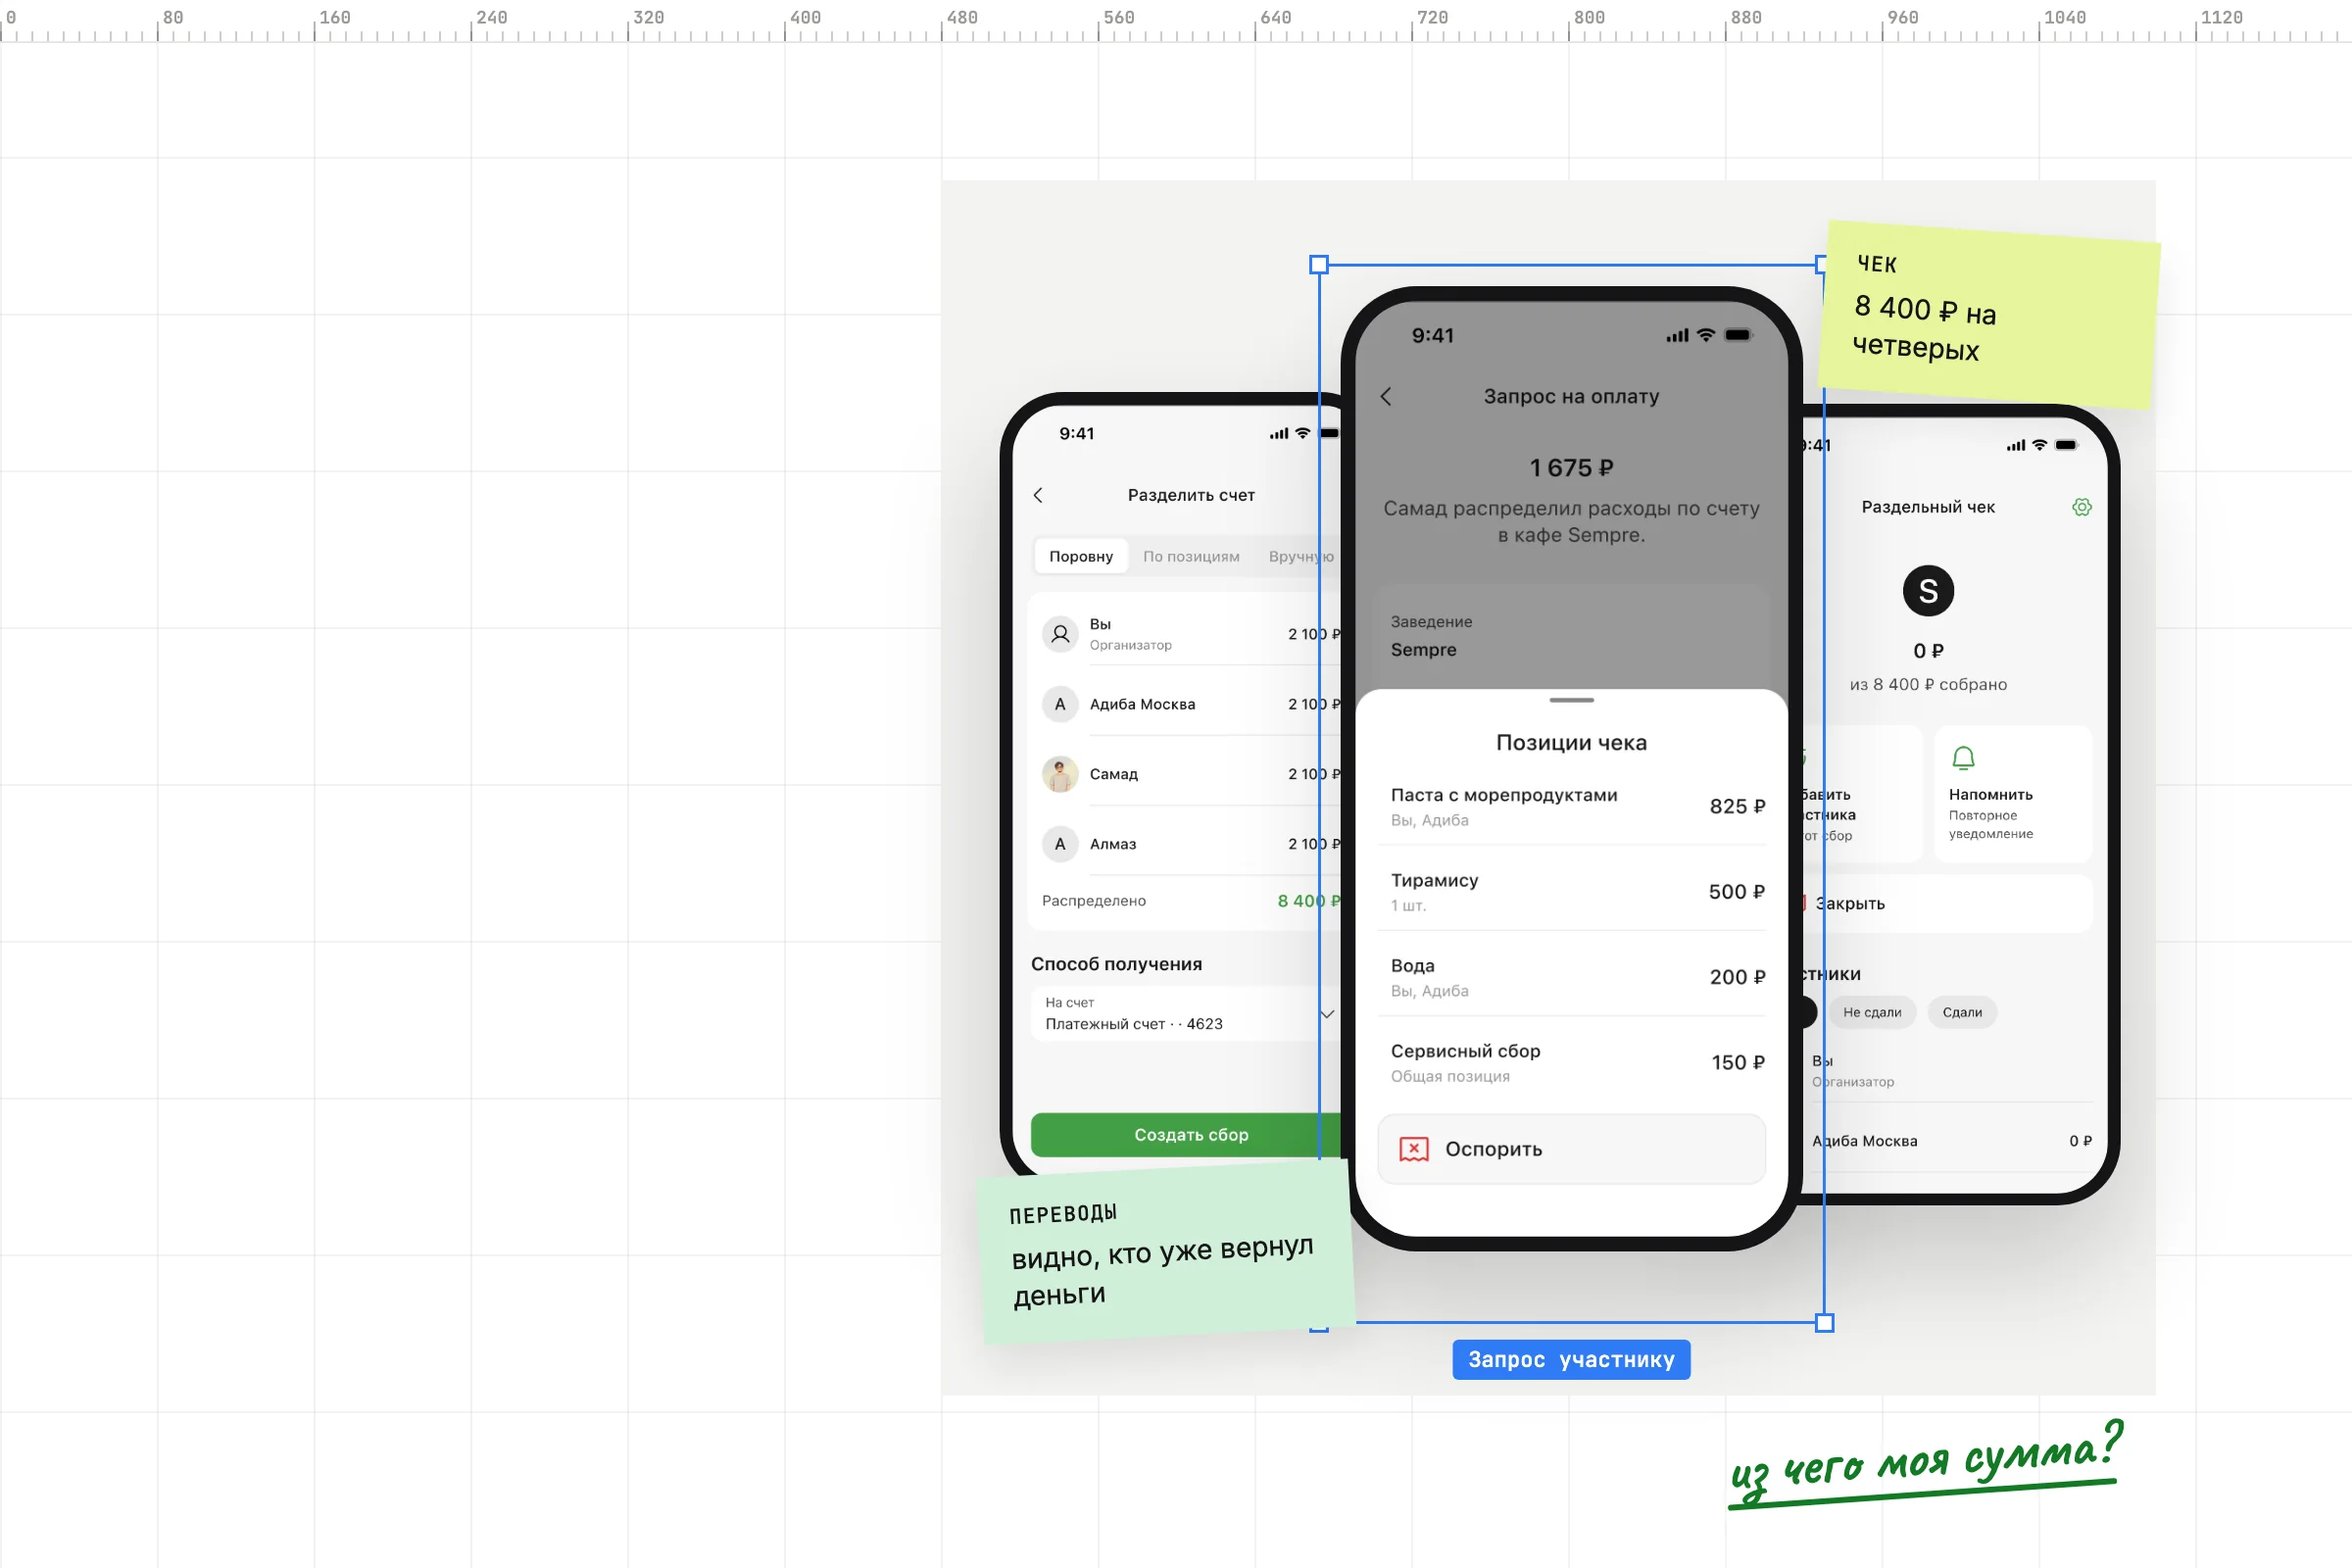
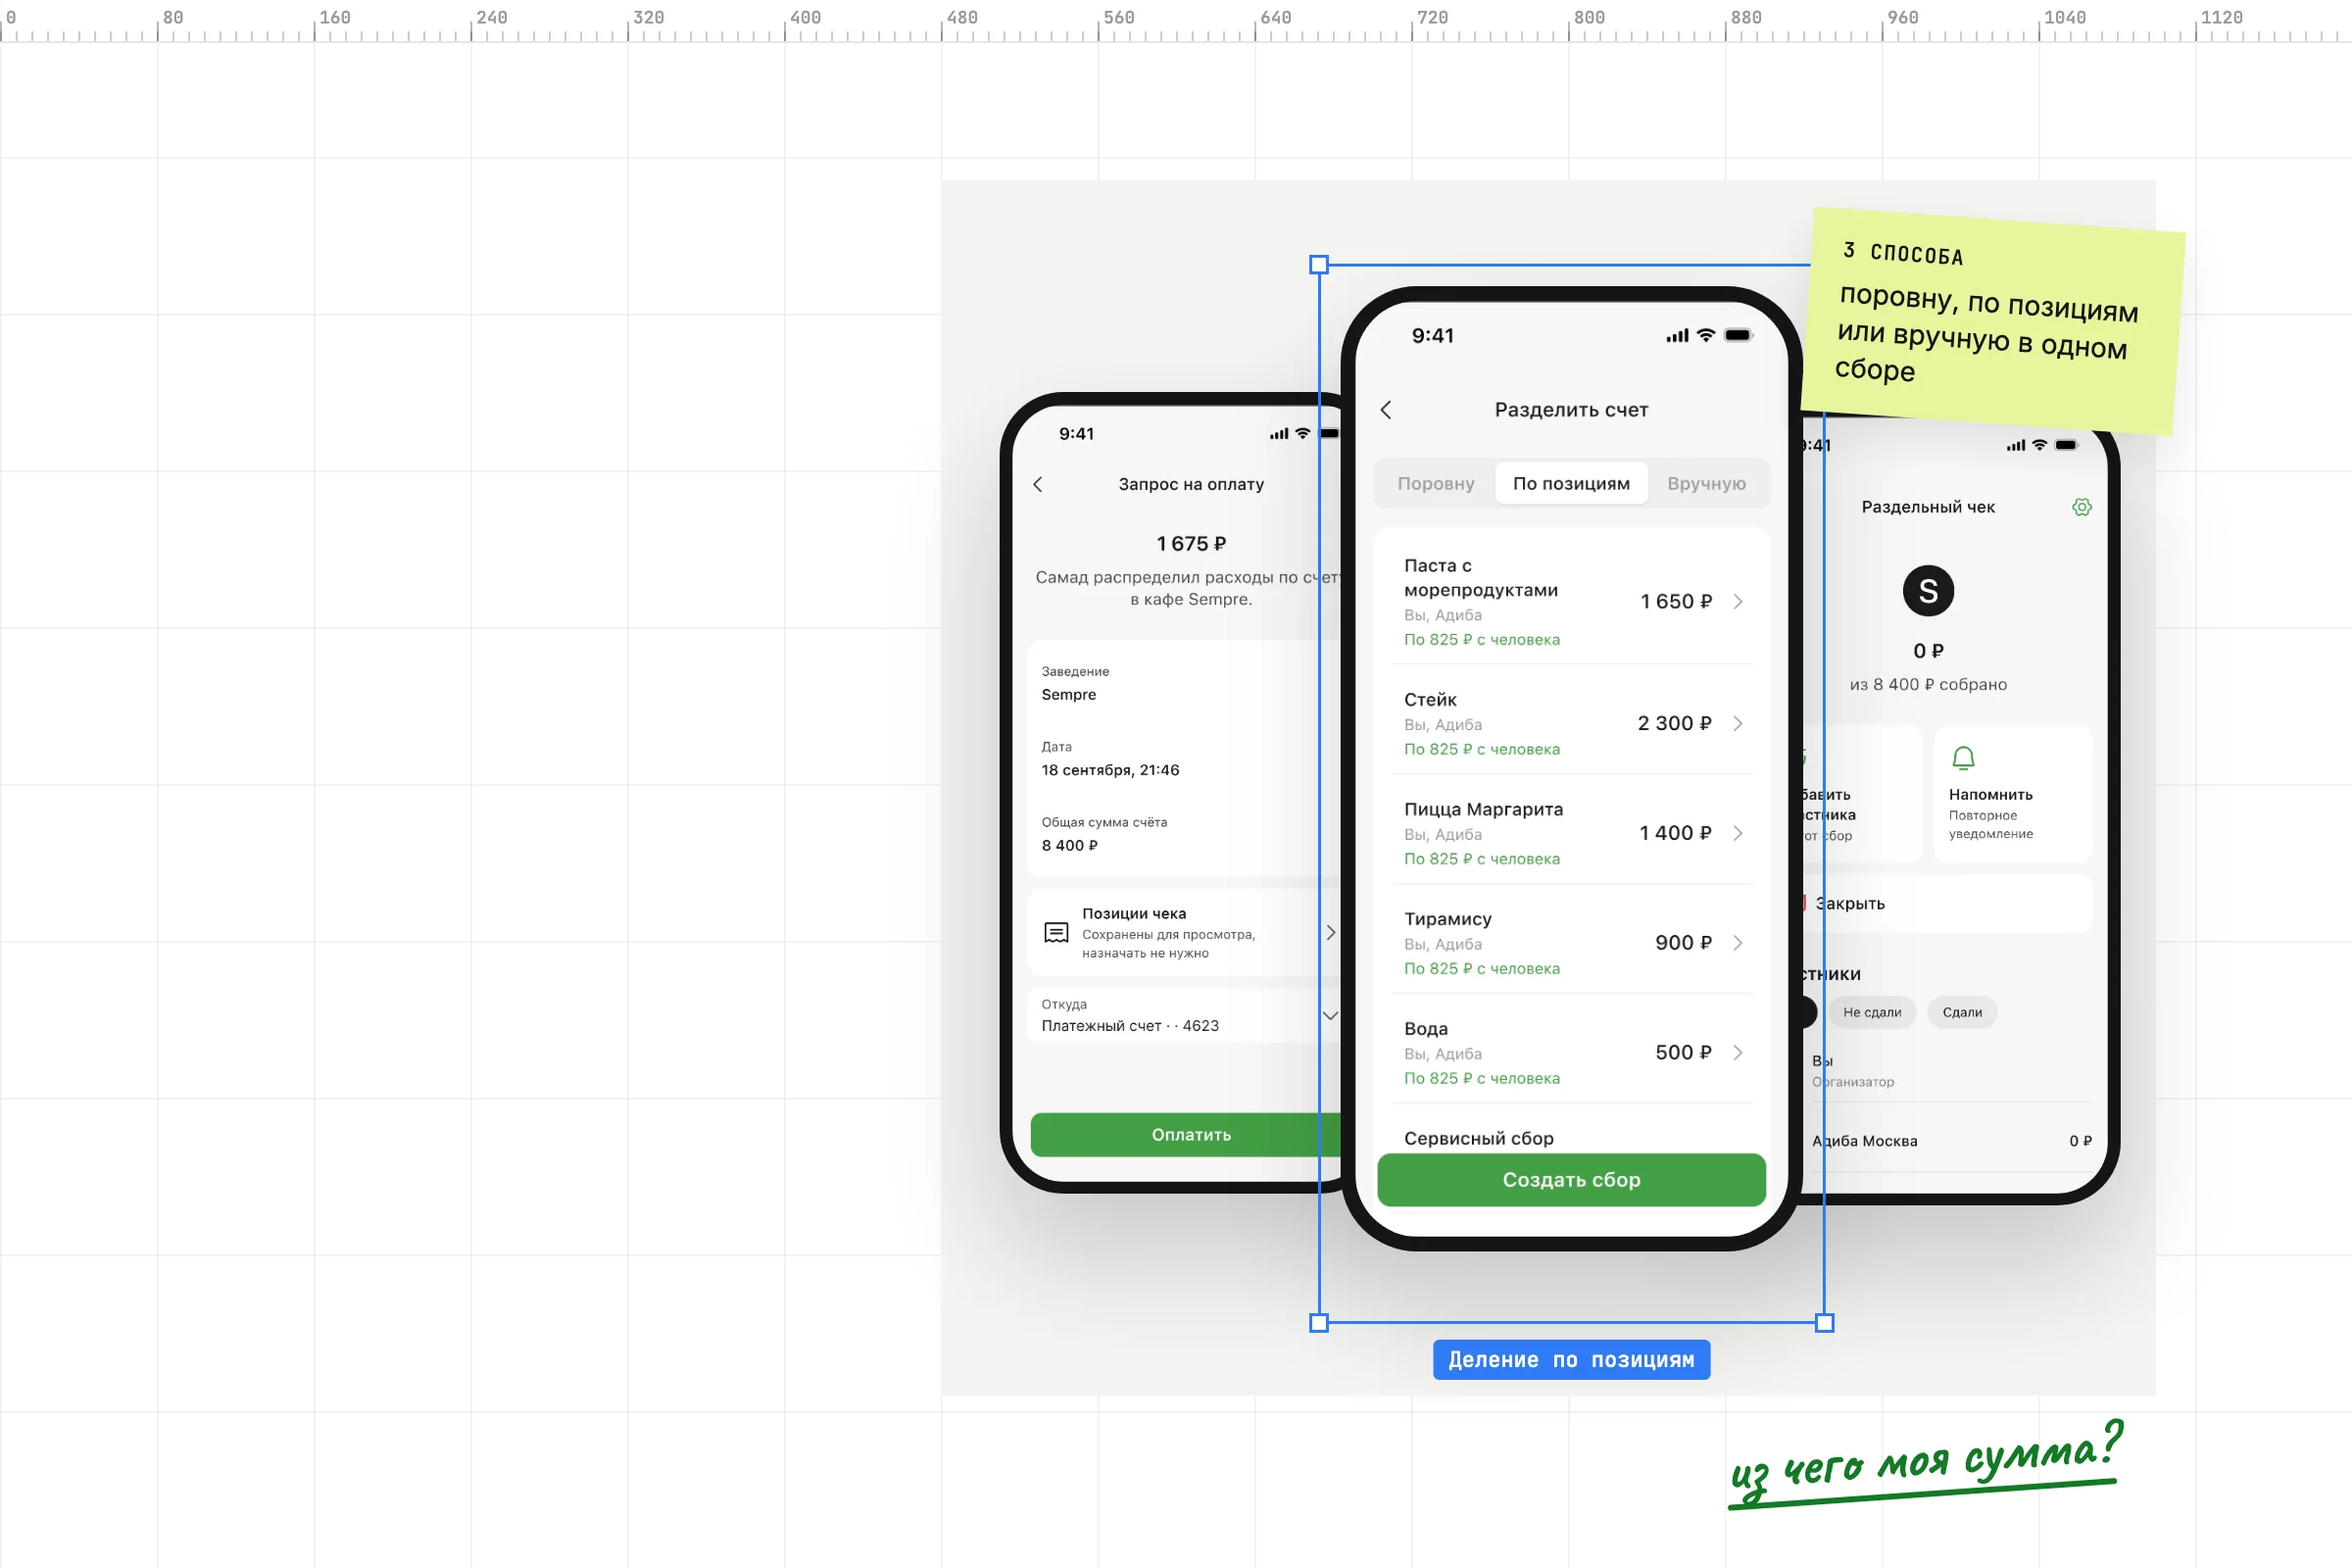
Feature the by-item split screen and soften calculator colours
The cover and Fig. 1 now centre the "split by item" screen in the
selection frame, and the sticky note states a project fact (three ways
to split in one collection) instead of example data. Calculator
participants use the pastel sticker palette instead of saturated hues.

diff --git a/case-sber-split.html b/case-sber-split.html
@@ -233,7 +233,7 @@ td:first-child{font-weight:600;white-space:nowrap}
 .modes button{all:unset;box-sizing:border-box;cursor:pointer;padding:8px 16px;border-radius:999px;font:500 13.5px/1.2 var(--sans);color:var(--ink2);white-space:nowrap;transition:background-color .2s,color .2s}
 .modes button[aria-selected="true"]{background:#151515;color:#fff}
 .modes button:not([aria-selected="true"]):hover{color:var(--ink)}
-.modes button:focus-visible{outline:2px solid var(--gt);outline-offset:2px}
+.modes button:focus-visible{outline:2px solid rgba(21,21,21,.35);outline-offset:2px}
 .calc{display:grid;grid-template-columns:minmax(0,1fr) minmax(0,1fr);gap:0}
 .calc>div{padding:20px}
 .calc .l{border-right:1px solid var(--hair)}
@@ -245,7 +245,7 @@ td:first-child{font-weight:600;white-space:nowrap}
 .avs{display:inline-flex;gap:4px}
 .av1{all:unset;box-sizing:border-box;cursor:pointer;width:28px;height:28px;border-radius:50%;display:inline-grid;place-items:center;font:600 12px/1 var(--sans);border:1.5px solid var(--hair);color:var(--mute);background:#fff;transition:background-color .2s,color .2s,border-color .2s;position:relative}
 .av1::after{content:"";position:absolute;inset:-4px -2px}
-.av1[aria-pressed="true"]{background:var(--pc);border-color:var(--pc);color:#fff}
+.av1[aria-pressed="true"]{background:var(--pc);border-color:var(--pd);color:#151515}
 .av1:focus-visible{outline:2px solid var(--ink);outline-offset:2px}
 .sub{margin-top:18px}
 .note-u{margin-top:10px;font-size:13px;font-weight:500;color:#9A3412}
@@ -255,11 +255,11 @@ td:first-child{font-weight:600;white-space:nowrap}
 .people button[aria-pressed="true"]{border-color:var(--ink)}
 .people button[aria-pressed="false"]{color:var(--mute)}
 .people button:focus-visible{outline:2px solid var(--gt);outline-offset:2px}
-.people b{width:8px;height:8px;border-radius:50%;background:var(--pc)}
+.people b{width:9px;height:9px;border-radius:50%;background:var(--pc);box-shadow:inset 0 0 0 1px var(--pd)}
 .people button[aria-pressed="false"] b{background:#ccc}
 .mrow{display:flex;align-items:center;gap:12px;margin-top:10px}
 .mrow label{flex:1;display:flex;align-items:center;gap:8px;font-size:14px}
-.mrow label b{width:8px;height:8px;border-radius:50%;background:var(--pc);flex:none}
+.mrow label b{width:9px;height:9px;border-radius:50%;background:var(--pc);box-shadow:inset 0 0 0 1px var(--pd);flex:none}
 .mrow .in{position:relative;width:150px;flex:none}
 .mrow input{all:unset;box-sizing:border-box;width:100%;height:40px;padding:0 30px 0 12px;border:1px solid #C9C9C4;border-radius:8px;background:#fff;font:500 15px/1 var(--sans);font-variant-numeric:tabular-nums;text-align:right;color:var(--ink)}
 .mrow input:focus{border-color:var(--ink);box-shadow:0 0 0 3px rgba(21,21,21,.08)}
@@ -270,7 +270,7 @@ td:first-child{font-weight:600;white-space:nowrap}
 .btn2:focus-visible{outline:2px solid var(--gt);outline-offset:2px}
 .calc .r{display:flex;flex-direction:column}
 .share{display:grid;grid-template-columns:10px minmax(0,1fr) auto;gap:10px;align-items:center;padding:10px 0;border-bottom:1px solid #F0F0EC;font-size:14.5px}
-.share u{width:10px;height:10px;border-radius:3px;background:var(--pc)}
+.share u{width:10px;height:10px;border-radius:3px;background:var(--pc);box-shadow:inset 0 0 0 1px var(--pd)}
 .share b{font-variant-numeric:tabular-nums;font-weight:600}
 .share.off{color:var(--mute)}
 .share.off u{background:#ccc}
@@ -338,7 +338,7 @@ td:first-child{font-weight:600;white-space:nowrap}
   .mrow label{flex:1 1 100%}
   .mrow .in{width:100%}
 }
-.pc0,.sbar i:nth-child(1){--pc:#137A26}.pc1,.sbar i:nth-child(2){--pc:#2563D6}.pc2,.sbar i:nth-child(3){--pc:#A86A00}.pc3,.sbar i:nth-child(4){--pc:#C73259}
+.pc0,.sbar i:nth-child(1){--pc:#BFE6CB;--pd:#7FC495}.pc1,.sbar i:nth-child(2){--pc:#C4DDF2;--pd:#86B4DE}.pc2,.sbar i:nth-child(3){--pc:#DDEE8C;--pd:#B3C94A}.pc3,.sbar i:nth-child(4){--pc:#F2CDB4;--pd:#DDA27E}
 /* ruler marker */
 .rmark{position:absolute;left:0;bottom:0;width:0;height:0;border-left:5px solid transparent;border-right:5px solid transparent;border-bottom:7px solid var(--green);margin-left:-5px;will-change:transform}
 /* artifacts hover cue */
@@ -451,11 +451,11 @@ body.av-open .case-floating-nav,body.av-open .site-nav{opacity:0;pointer-events:
 
 <section class="wrap reveal">
   <figure class="fig"><div class="plate p-hero">
-    <div class="phone f1"><img src="assets/sber/v3/creator-01-operation.webp" width="937" height="2026" data-alt-ru="Экран операции с кнопкой «Разделить»" data-alt-en="Transaction screen with the “Split” button" alt="Экран операции с кнопкой «Разделить»" decoding="async"></div>
-    <div class="sel" style="--sel:#2F7BF6"><span class="h1x"><i></i><i></i></span><div class="phone f1"><img src="assets/sber/v3/recipient-03-items.webp" width="936" height="2026" data-alt-ru="Запрос участника с позициями чека" data-alt-en="Participant request with receipt items" alt="Запрос участника с позициями чека" decoding="async" fetchpriority="high"></div><span class="sz"><span data-lang="ru">Запрос участнику</span><span data-lang="en">Participant request</span></span></div>
+    <div class="phone f1"><img src="assets/sber/v3/recipient-02-request.webp" width="936" height="2027" data-alt-ru="Запрос участнику на 1 675 ₽" data-alt-en="Participant request for 1,675 ₽" alt="Запрос участнику на 1 675 ₽" decoding="async"></div>
+    <div class="sel" style="--sel:#2F7BF6"><span class="h1x"><i></i><i></i></span><div class="phone f1"><img src="assets/sber/v3/split-items-03-assigned.webp" width="936" height="2027" data-alt-ru="Деление счёта по позициям: у каждого блюда видно, кто его делит и по сколько" data-alt-en="Splitting the bill by item: each dish shows who shares it and how much each pays" alt="Деление счёта по позициям: у каждого блюда видно, кто его делит и по сколько" decoding="async" fetchpriority="high"></div><span class="sz"><span data-lang="ru">Деление по позициям</span><span data-lang="en">Split by item</span></span></div>
     <div class="phone f1"><img src="assets/sber/v3/creator-11-collection-status.webp" width="937" height="2027" data-alt-ru="Статус сбора: кто перевёл и кнопка «Напомнить»" data-alt-en="Collection status: who has transferred and the “Remind” button" alt="Статус сбора: кто перевёл и кнопка «Напомнить»" decoding="async"></div>
-    <span class="stick" style="right:6%;top:18%;background:var(--chosen);--r:4deg"><span data-lang="ru">Ключевой экран кейса</span><span data-lang="en">The key screen of the case</span></span>
-  </div><figcaption class="cap"><span data-lang="ru">Рис. 1. Покупка, запрос участнику и статус сбора. Данные примера.</span><span data-lang="en">Fig. 1. The purchase, the participant request and the collection status. Example data.</span></figcaption></figure>
+    <span class="stick" style="right:6%;top:18%;background:var(--n-lime);--r:4deg"><span data-lang="ru">3 способа деления в одном сборе</span><span data-lang="en">3 ways to split in one collection</span></span>
+  </div><figcaption class="cap"><span data-lang="ru">Рис. 1. Запрос участнику, деление по позициям и статус сбора. Данные примера.</span><span data-lang="en">Fig. 1. The participant request, the split by item and the collection status. Example data.</span></figcaption></figure>
 </section>
 
 <section class="wrap sec two reveal" data-tick>
